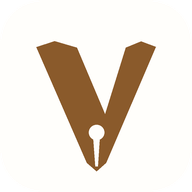
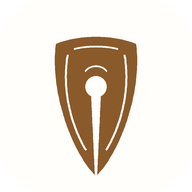
Add files via upload

Changed region(s): [[0.1875, 0.1875, 0.8125, 0.9062]]

diff --git a/index.html b/index.html
@@ -363,12 +363,7 @@
 <div id="app">
   <header>
     <div class="tier">
-      <div class="brand"><svg class="mark" viewBox="0 0 100 100" aria-hidden="true">
-        <path d="M19 24.6 28.5 21.4 40 24.8 54.8 59.6 65.5 24.8 73.5 21.6 81.2 24.4'
-        ' 55.3 84.8 50.3 89.2 45.2 84.8Z" fill="currentColor"/>
-        <circle cx="50.3" cy="69" r="4" fill="var(--paper)"/>
-        <path d="M48.4 69h3.8l-1.3 17.6h-1.2Z" fill="var(--paper)"/>
-      </svg> Nous <em id="buildTag"></em></div>
+      <div class="brand"><svg class="mark" viewBox="0 0 100 100" aria-hidden="true"><path d="M29.2 22.8C41.5 19.4 58.5 19.4 70.8 22.8C74.2 47.8 62.8 78.6 50.0 91.8C37.2 78.6 25.8 47.8 29.2 22.8Z" fill="currentColor"/><circle cx="50" cy="45.2" r="5.5" fill="var(--paper)"/><path d="M47.3 45.2L52.7 45.2L50.5 90.5L49.5 90.5Z" fill="var(--paper)"/><path d="M35.2 29.4C32.0 47.4 37.2 65.6 44.8 77.4" fill="none" stroke="var(--paper)" stroke-width="1.7" stroke-linecap="round"/><path d="M64.8 29.4C68.0 47.4 62.8 65.6 55.2 77.4" fill="none" stroke="var(--paper)" stroke-width="1.7" stroke-linecap="round"/><path d="M44.4 37.6C47.0 34.2 53.0 34.2 55.6 37.6" fill="none" stroke="var(--paper)" stroke-width="1.6" stroke-linecap="round"/><path d="M38.6 26.8C44.0 25.0 56.0 25.0 61.4 26.8" fill="none" stroke="var(--paper)" stroke-width="1.6" stroke-linecap="round"/></svg> Nous <em id="buildTag"></em></div>
       <select id="passage"><option value="">No book loaded</option></select>
       <select id="chapter" title="Which part of the loaded book to lay out"
               style="display:none"></select>
@@ -422,12 +417,7 @@
       <div id="hit"></div>
       <div id="empty">
         <div class="card">
-          <svg class="glyph" viewBox="0 0 100 100" aria-hidden="true">
-            <path d="M19 24.6 28.5 21.4 40 24.8 54.8 59.6 65.5 24.8 73.5 21.6 81.2 24.4'
-            ' 55.3 84.8 50.3 89.2 45.2 84.8Z" fill="currentColor"/>
-            <circle cx="50.3" cy="69" r="4" fill="var(--paper)"/>
-            <path d="M48.4 69h3.8l-1.3 17.6h-1.2Z" fill="var(--paper)"/>
-          </svg>
+          <svg class="glyph" viewBox="0 0 100 100" aria-hidden="true"><path d="M29.2 22.8C41.5 19.4 58.5 19.4 70.8 22.8C74.2 47.8 62.8 78.6 50.0 91.8C37.2 78.6 25.8 47.8 29.2 22.8Z" fill="currentColor"/><circle cx="50" cy="45.2" r="5.5" fill="var(--paper)"/><path d="M47.3 45.2L52.7 45.2L50.5 90.5L49.5 90.5Z" fill="var(--paper)"/><path d="M35.2 29.4C32.0 47.4 37.2 65.6 44.8 77.4" fill="none" stroke="var(--paper)" stroke-width="1.7" stroke-linecap="round"/><path d="M64.8 29.4C68.0 47.4 62.8 65.6 55.2 77.4" fill="none" stroke="var(--paper)" stroke-width="1.7" stroke-linecap="round"/><path d="M44.4 37.6C47.0 34.2 53.0 34.2 55.6 37.6" fill="none" stroke="var(--paper)" stroke-width="1.6" stroke-linecap="round"/><path d="M38.6 26.8C44.0 25.0 56.0 25.0 61.4 26.8" fill="none" stroke="var(--paper)" stroke-width="1.6" stroke-linecap="round"/></svg>
           <h2>Install the Greek New Testament</h2>
           <p>All 27 books with full morphological parsing, from the MorphGNT
              edition of the SBL Greek New Testament. About 8&nbsp;MB, fetched once
@@ -3172,7 +3162,7 @@ document.getElementById("forget").onclick = ()=>{
 
 /* Build stamp — shown next to the name so it is always obvious which version
    is actually running, rather than inferring it from which features appear. */
-const BUILD = "2026-08-04a";
+const BUILD = "2026-08-04b";
 document.getElementById("buildTag").textContent = BUILD;
 
 /* Offline support. Only active when served over http(s); opening the file

diff --git a/sw.js b/sw.js
@@ -9,7 +9,7 @@
    having instantly.
 
    Books and diagrams live in IndexedDB and are never touched here. */
-const VERSION = "2026-08-04a";
+const VERSION = "2026-08-04b";
 const CACHE   = "nous-" + VERSION;
 const SHELL = [
   "./",
